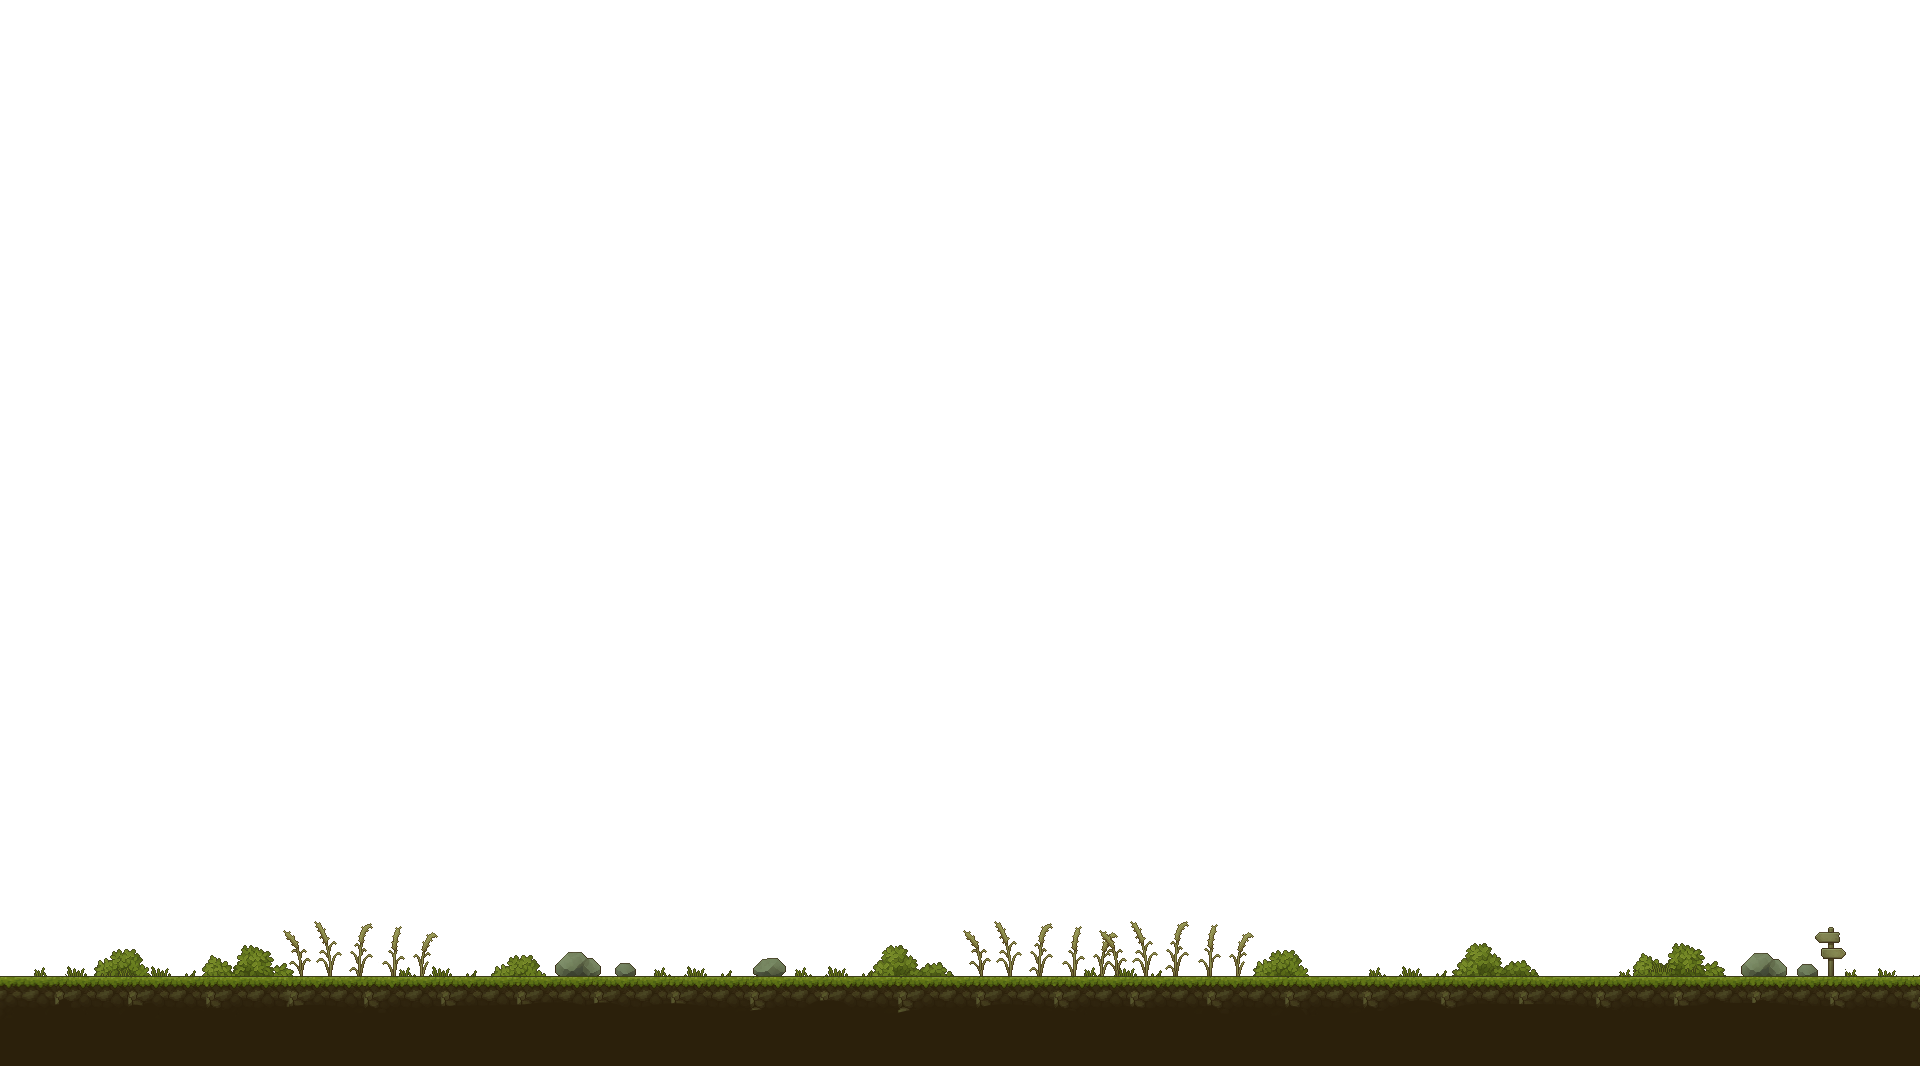
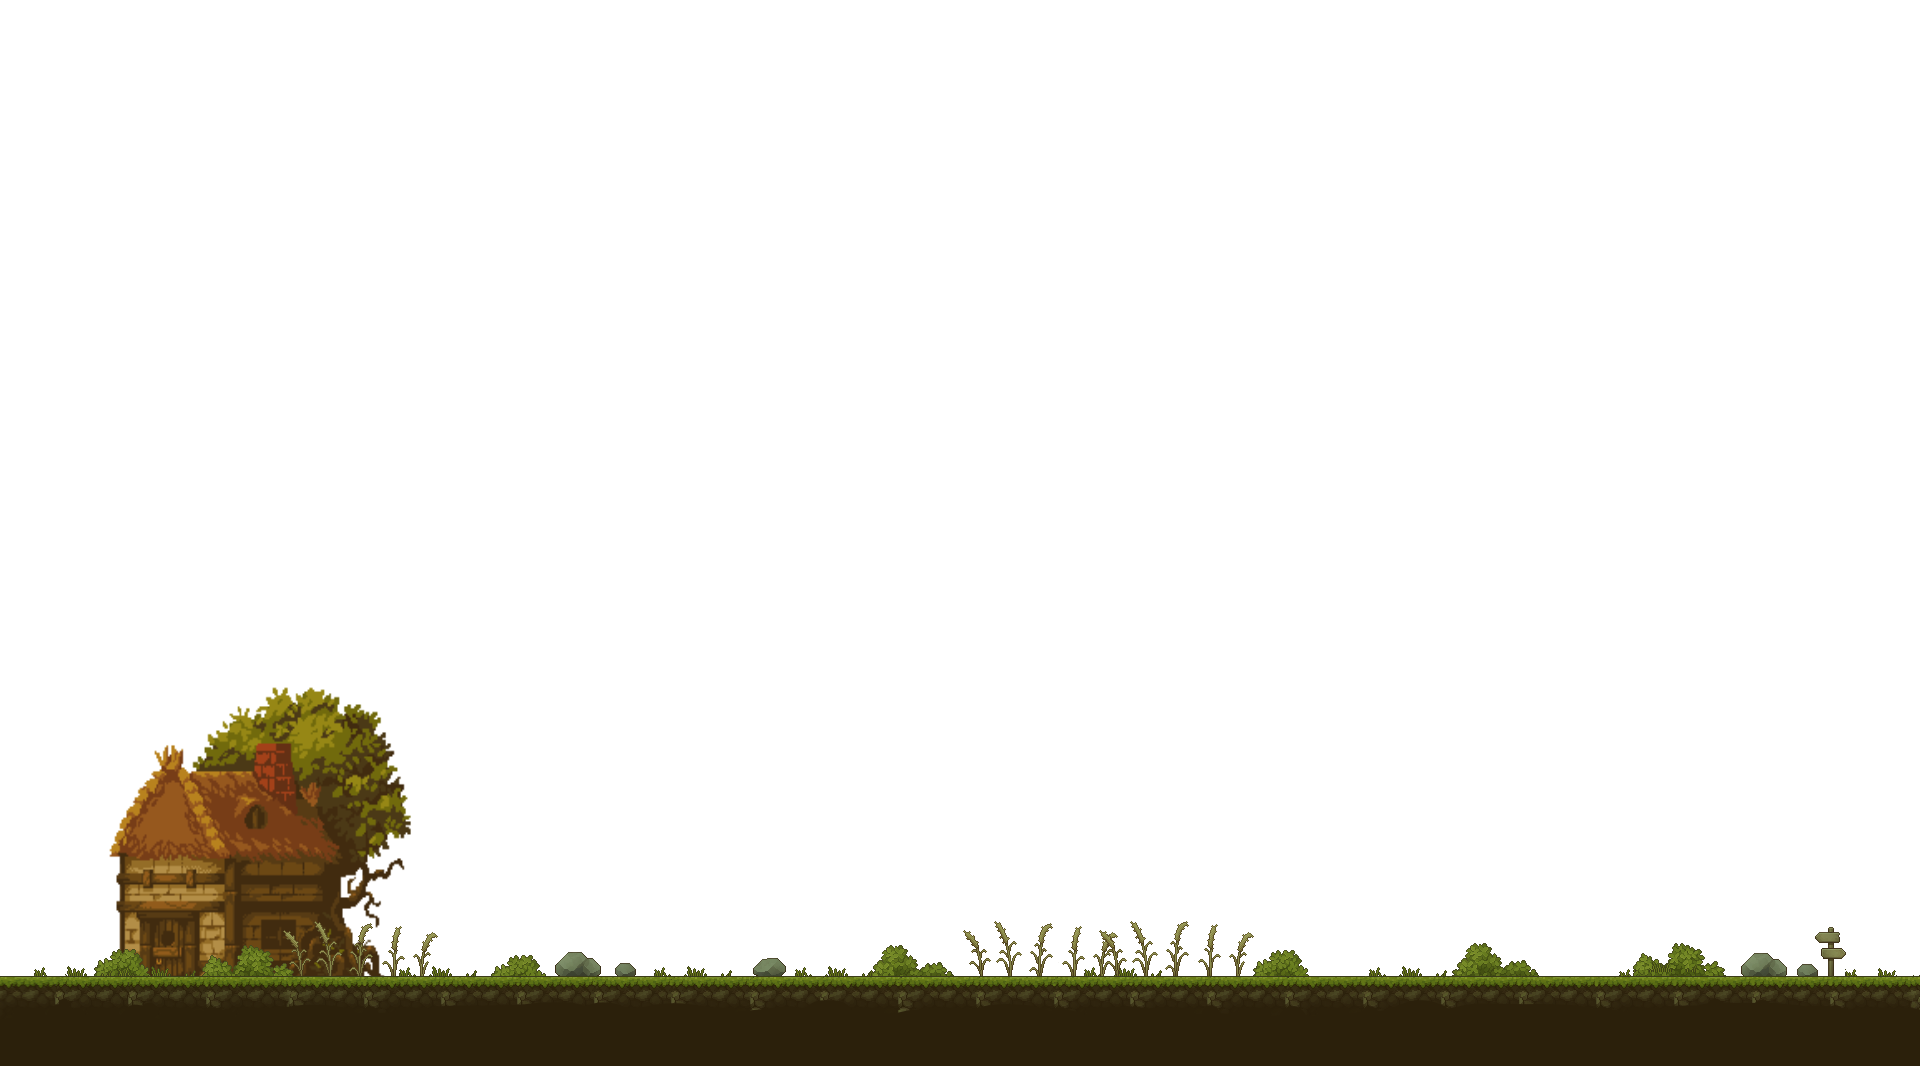
Fondo bosque terminado, parallax de fabrica entero, sprites de aldeanos arreglados, clase Obstaculo, colisiones con obstaculos y campo en el JSON implementados (falta 'estatua.png').

Changed region(s): [[0.0625, 0.6501, 0.2188, 0.9287]]

diff --git a/personajes.py b/personajes.py
@@ -200,7 +200,10 @@ class Personaje(MiSprite):
         
         self.prevPostura = self.numPostura
 
-    def update(self, tiempo, grupoPlataformas):
+    def update(self, tiempo, grupos):
+
+        grupoPlataformas = grupos[0]
+        grupoObstaculos = grupos[1]
 
         # Comprobamos si el coolDown para ser golpeado debe descontarse
         if self.cooldownDano > 0:
@@ -213,7 +216,7 @@ class Personaje(MiSprite):
 
         # Si vamos a la izquierda o a la derecha
         if (self.movimiento == IZQUIERDA) or (self.movimiento == DERECHA):
-            velocidadx = self.desplHorizontal(self.movimiento)
+            velocidadx = self.desplHorizontal(self.movimiento, grupoObstaculos)
             
             # Si no estamos en el aire
             if self.numPostura != SPRITE_SALTANDO_UP:
@@ -227,7 +230,7 @@ class Personaje(MiSprite):
         elif self.movimiento == ARRIBA:
 
             if (self.movimiento_extra == IZQUIERDA) or (self.movimiento_extra == DERECHA):
-                velocidadx = self.desplHorizontal(self.movimiento_extra)
+                velocidadx = self.desplHorizontal(self.movimiento_extra, grupoObstaculos)
             
             # La postura actual sera estar saltando
             self.numPostura = SPRITE_SALTANDO_UP
@@ -285,15 +288,22 @@ class Personaje(MiSprite):
         #  calcule la nueva posición del Sprite
         MiSprite.update(self, tiempo)
 
-    def desplHorizontal(self, movimiento):
+    def desplHorizontal(self, movimiento, grupoObstaculos):
         self.mirando = movimiento
 
         # Si vamos a la izquierda, le ponemos velocidad en esa dirección
         if self.movimiento == IZQUIERDA:
-            return -self.velocidadCarrera
+            if pygame.sprite.spritecollideany(self, grupoObstaculos) is None:
+                return -self.velocidadCarrera
+            else:
+                return 0
+
         # Si vamos a la derecha, le ponemos velocidad en esa dirección
         else:
-            return self.velocidadCarrera
+            if pygame.sprite.spritecollideany(self, grupoObstaculos) is None:
+                return self.velocidadCarrera
+            else:
+                return 0
 
     # Quita vida solo si no hay frames de invencibilidad
     def quitar_vida(self):
@@ -457,6 +467,17 @@ class NoJugador(Personaje):
             self.mirando = IZQUIERDA
         else:
             self.mirando = DERECHA
+
+
+class Obstaculo(NoJugador):
+    """Estatuas para bloquear el paso"""
+
+    def __init__(self, coordenadas, velocidad, velocidadSalto, retardoAnimacion):
+
+        Personaje.__init__(self, 'estatua.png', coordenadas, [1,0,0,0,0,0], velocidad, velocidadSalto, retardoAnimacion, 3)
+
+    def mover_cpu(self, jugador):
+        self.mirando = IZQUIERDA
 
 
 # -------------------------------------------- Enemigos y NPCs ---------------------------------------------------------

diff --git a/fase.py b/fase.py
@@ -1,5 +1,5 @@
 # -*- coding: utf-8 -*-
-
+import pygame.sprite
 from pygame.locals import *
 
 import personajes
@@ -65,13 +65,15 @@ class Fase(Escena):
         self.grupoPlataformas = pygame.sprite.Group()
         self.crearPlataformas()
 
-        # NPC y enemigos
+        # Grupos
         self.grupoEnemigos = pygame.sprite.Group()
         self.grupoNPCs = pygame.sprite.Group()
         self.grupoObjetos = pygame.sprite.Group()
+        self.grupoObstaculos = pygame.sprite.Group()
         self.crearEnemigos()
         self.crearNPCs()
         self.crearObjetos()
+        self.crearObstaculos()
 
         self.grupoProyectiles = pygame.sprite.Group()
         self.crearProyectiles()
@@ -154,6 +156,19 @@ class Fase(Escena):
 
         self.grupoObjetos.add(listaObjetos)
         self.grupoSprites.add(listaObjetos)
+
+    def crearObstaculos(self):
+        listaOstaculos = []
+
+        for reg_obs in self.datos["OBSTACULOS"]:
+            clase_obs = getattr(personajes, reg_obs["CLASE"])
+            inst_obs = clase_obs()
+            inst_obs.establecerPosicion(reg_obs["POS"])
+            listaOstaculos.append(inst_obs)
+
+        self.grupoObjetos.add(listaOstaculos)
+        self.grupoSprites.add(listaOstaculos)
+
     
     # Para evitar que el jugador se salga de pantalla podemos poner maximos/plataformas ¿?    
     def actualizarScroll(self, jugador):
@@ -175,7 +190,7 @@ class Fase(Escena):
     def update(self, tiempo):
 
         # Actualizamos los Sprites dinamicos
-        self.grupoSpritesDinamicos.update(tiempo, self.grupoPlataformas)
+        self.grupoSpritesDinamicos.update(tiempo, (self.grupoPlataformas, self.grupoObstaculos))
 
         # Colision entre jugador y enemigo -> quita vida
         if not self.jugador.atacando:
@@ -322,10 +337,10 @@ class Trigger(MiSprite):
 class Cielo:
     def __init__(self, datos):
 
-        self.nubes = GestorRecursos.CargarImagen(datos['CIELO'], 0)
+        self.nubes = GestorRecursos.CargarImagen(datos['CIELO'], -1)
         self.nubes = pygame.transform.scale(self.nubes, (1100, 550))
 
-        self.nubesdup = GestorRecursos.CargarImagen(datos['CIELO'], 0)
+        self.nubesdup = GestorRecursos.CargarImagen(datos['CIELO'], -1)
         self.nubesdup = pygame.transform.scale(self.nubesdup, (1100, 550))
 
         self.rect_nubes = self.nubes.get_rect()
@@ -357,7 +372,7 @@ class Cielo:
 
 class Fondo:
     def __init__(self, datos):
-        self.imagen = GestorRecursos.CargarImagen(datos["FONDO"], -1)
+        self.imagen = GestorRecursos.CargarImagen(datos["FONDO"], 0)
         self.imagen = pygame.transform.scale(self.imagen, datos["SIZE"])
 
         self.rect = self.imagen.get_rect()
